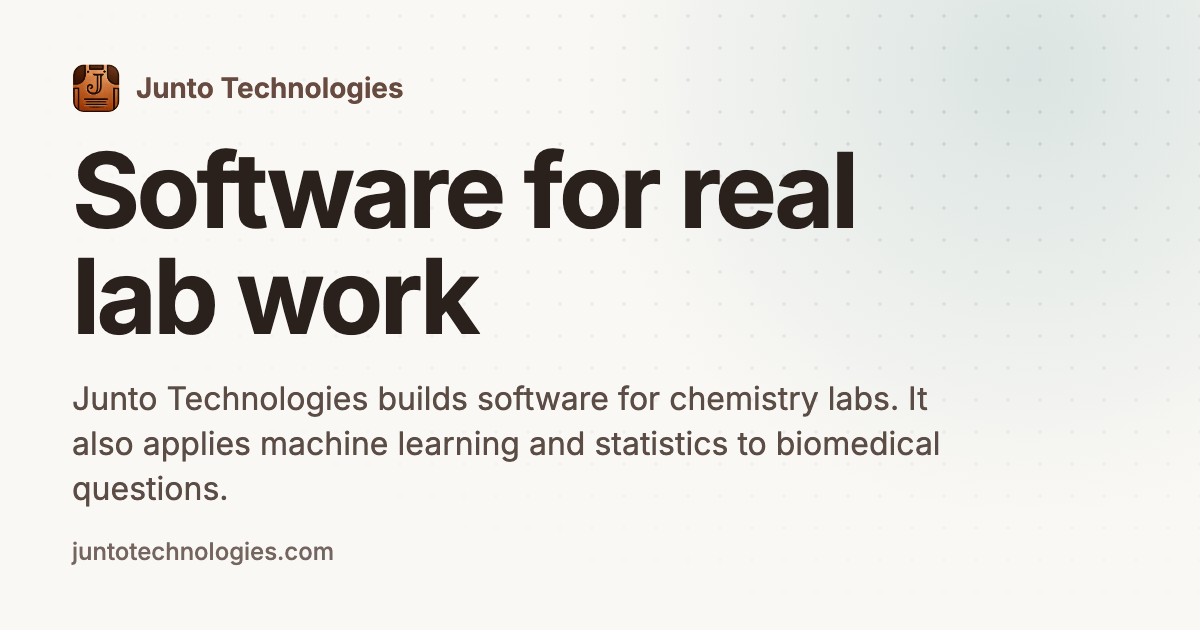
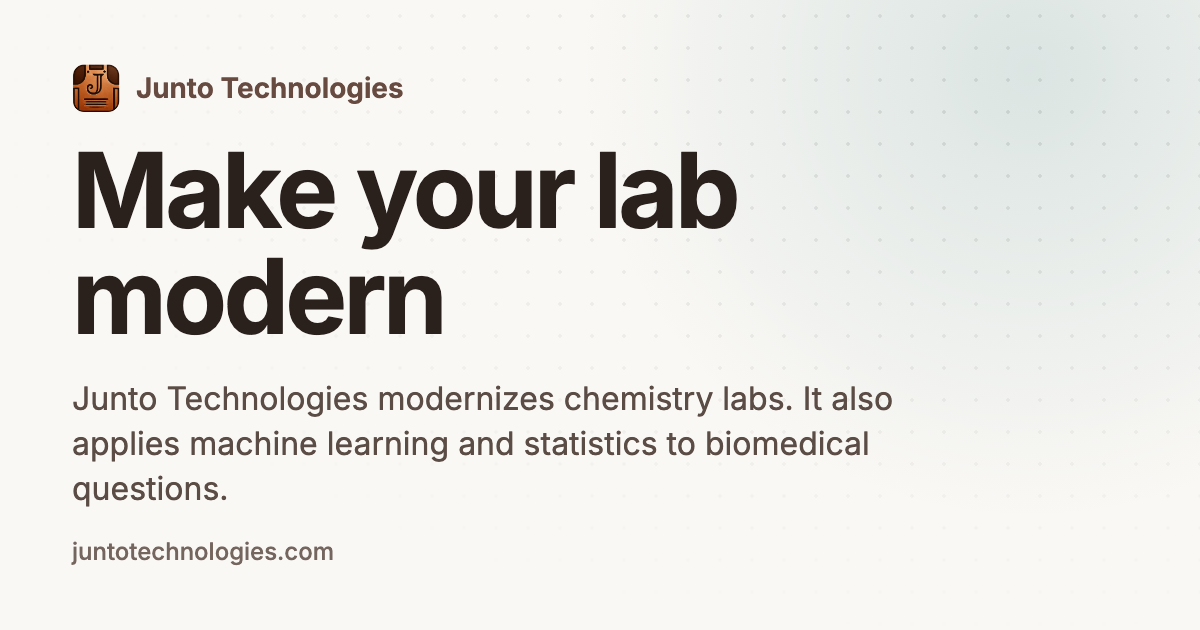
Brand Junto as the lab modernizer and ban the word software in public copy
Shaun said Junto is not a software brand: it also connects older
instruments and moves into hardware. The hero now reads "Make your lab
modern". A test fails when a banned word returns to the public copy.

Claude-Session: https://claude.ai/code/session_01CqjQfdrAKLtMmjtwLw9jWz

diff --git a/index.html b/index.html
@@ -5,22 +5,22 @@
     <meta name="viewport" content="width=device-width, initial-scale=1" />
     <meta name="color-scheme" content="light dark" />
     <title>Junto Technologies</title>
-    <meta name="description" content="Junto Technologies builds software for chemistry labs. It also applies machine learning and statistics to biomedical questions." />
+    <meta name="description" content="Junto Technologies modernizes chemistry labs. It also applies machine learning and statistics to biomedical questions." />
     <link rel="canonical" href="https://juntotechnologies.com/" />
     <meta property="og:type" content="website" />
     <meta property="og:site_name" content="Junto Technologies" />
     <meta property="og:title" content="Junto Technologies" />
-    <meta property="og:description" content="Junto Technologies builds software for chemistry labs. It also applies machine learning and statistics to biomedical questions." />
+    <meta property="og:description" content="Junto Technologies modernizes chemistry labs. It also applies machine learning and statistics to biomedical questions." />
     <meta property="og:url" content="https://juntotechnologies.com/" />
     <meta property="og:image" content="https://juntotechnologies.com/assets/img/og.png" />
     <meta property="og:image:width" content="1200" />
     <meta property="og:image:height" content="630" />
-    <meta property="og:image:alt" content="Junto Technologies. Software for real lab work." />
+    <meta property="og:image:alt" content="Junto Technologies. Make your lab modern." />
     <meta name="twitter:card" content="summary_large_image" />
     <meta name="twitter:title" content="Junto Technologies" />
-    <meta name="twitter:description" content="Junto Technologies builds software for chemistry labs. It also applies machine learning and statistics to biomedical questions." />
+    <meta name="twitter:description" content="Junto Technologies modernizes chemistry labs. It also applies machine learning and statistics to biomedical questions." />
     <meta name="twitter:image" content="https://juntotechnologies.com/assets/img/og.png" />
-    <meta name="twitter:image:alt" content="Junto Technologies. Software for real lab work." />
+    <meta name="twitter:image:alt" content="Junto Technologies. Make your lab modern." />
     <meta name="theme-color" media="(prefers-color-scheme: light)" content="#faf8f5" />
     <meta name="theme-color" media="(prefers-color-scheme: dark)" content="#171311" />
     <link rel="icon" type="image/png" href="public/favicon.png" />
@@ -28,7 +28,7 @@
     <script src="assets/js/theme-init.js"></script>
     <link rel="stylesheet" href="assets/css/tokens.css" />
     <link rel="stylesheet" href="assets/css/site.css" />
-    <script type="application/ld+json">{"@context":"https://schema.org","@graph":[{"@type":"Organization","@id":"https://juntotechnologies.com/#organization","name":"Junto Technologies","url":"https://juntotechnologies.com/","logo":"https://juntotechnologies.com/public/junto-tech-logo.png","description":"Junto Technologies builds software for chemistry labs. It also applies machine learning and statistics to biomedical questions.","sameAs":["https://github.com/juntotechnologies"],"contactPoint":{"@type":"ContactPoint","contactType":"General inquiries","url":"https://cal.com/shaun-porwal-junto/30min"}},{"@type":"WebSite","@id":"https://juntotechnologies.com/#website","name":"Junto Technologies","url":"https://juntotechnologies.com/","description":"Junto Technologies builds software for chemistry labs. It also applies machine learning and statistics to biomedical questions.","inLanguage":"en","publisher":{"@id":"https://juntotechnologies.com/#organization"}},{"@type":"SoftwareApplication","@id":"https://juntotechnologies.com/#cheminventory","name":"ChemInventory","url":"https://cheminventory.co/","description":"Inventory software that fits how each lab works. One record of what a lab holds, where it is and who changed it.","applicationCategory":"BusinessApplication","operatingSystem":"Web","publisher":{"@id":"https://juntotechnologies.com/#organization"}},{"@type":"SoftwareApplication","@id":"https://juntotechnologies.com/#bench-bridge","name":"Bench Bridge","url":"https://bench-bridge.juntotechnologies.com/","description":"A demo of how older lab instruments can feed a laboratory information management system (LIMS) and a controlled-substance ledger.","applicationCategory":"BusinessApplication","operatingSystem":"Web","publisher":{"@id":"https://juntotechnologies.com/#organization"}}]}</script>
+    <script type="application/ld+json">{"@context":"https://schema.org","@graph":[{"@type":"Organization","@id":"https://juntotechnologies.com/#organization","name":"Junto Technologies","url":"https://juntotechnologies.com/","logo":"https://juntotechnologies.com/public/junto-tech-logo.png","description":"Junto Technologies modernizes chemistry labs. It also applies machine learning and statistics to biomedical questions.","sameAs":["https://github.com/juntotechnologies"],"contactPoint":{"@type":"ContactPoint","contactType":"General inquiries","url":"https://cal.com/shaun-porwal-junto/30min"}},{"@type":"WebSite","@id":"https://juntotechnologies.com/#website","name":"Junto Technologies","url":"https://juntotechnologies.com/","description":"Junto Technologies modernizes chemistry labs. It also applies machine learning and statistics to biomedical questions.","inLanguage":"en","publisher":{"@id":"https://juntotechnologies.com/#organization"}},{"@type":"SoftwareApplication","@id":"https://juntotechnologies.com/#cheminventory","name":"ChemInventory","url":"https://cheminventory.co/","description":"Chemical inventory that fits how each lab works. One record of what a lab holds, where it is and who changed it.","applicationCategory":"BusinessApplication","operatingSystem":"Web","publisher":{"@id":"https://juntotechnologies.com/#organization"}},{"@type":"SoftwareApplication","@id":"https://juntotechnologies.com/#bench-bridge","name":"Bench Bridge","url":"https://bench-bridge.juntotechnologies.com/","description":"A demo of how older lab instruments can feed a laboratory information management system (LIMS) and a controlled-substance ledger.","applicationCategory":"BusinessApplication","operatingSystem":"Web","publisher":{"@id":"https://juntotechnologies.com/#organization"}}]}</script>
   </head>
   <body id="top">
   <a class="skip-link" href="#main">Skip to content</a>
@@ -49,8 +49,8 @@
   <main id="main" class="main">
     <section class="hero" aria-labelledby="hero-title">
       <div class="hero__art" aria-hidden="true"><span class="hero__dots"></span><span class="hero__glow"></span></div>
-      <div class="hero__layout"><h1 id="hero-title" class="hero__title">Software for real lab work</h1><div class="hero__aside"><p class="hero__body">Junto Technologies builds tools for chemistry labs. It also applies machine learning and statistics to biomedical questions.</p><p class="actions hero__actions"><a class="button button--large button--primary" href="#projects">See the projects</a><a class="button button--large button--quiet" href="#contact">Get in touch</a></p></div></div>
-      <div class="hero__areas"><p id="areas-label" class="hero__areas-label">Areas of work</p><ul class="hero__areas-list" aria-labelledby="areas-label"><li>Healthcare</li><li>Software</li><li>Engineering</li><li>Machine learning</li><li>Statistics</li></ul></div>
+      <div class="hero__layout"><h1 id="hero-title" class="hero__title">Make your lab modern</h1><div class="hero__aside"><p class="hero__body">Junto Technologies modernizes chemistry labs. It tracks what a lab holds and designs ways to connect older instruments to lab systems. It also applies machine learning and statistics to biomedical questions.</p><p class="actions hero__actions"><a class="button button--large button--primary" href="#projects">See the projects</a><a class="button button--large button--quiet" href="#contact">Get in touch</a></p></div></div>
+      <div class="hero__areas"><p id="areas-label" class="hero__areas-label">Areas of work</p><ul class="hero__areas-list" aria-labelledby="areas-label"><li>Healthcare</li><li>Lab systems</li><li>Engineering</li><li>Machine learning</li><li>Statistics</li></ul></div>
     </section>
     <section class="section" id="projects" aria-labelledby="projects-title">
       <div class="section__head reveal"><h2 id="projects-title" class="section__title">Projects</h2><p class="section__body">Each project has its own site and its own look.</p></div>
@@ -58,7 +58,7 @@
         <div class="tabs" role="tablist" aria-label="Choose a project" style="--tabs:2"><a class="tabs__tab" role="tab" id="tab-cheminventory" href="#cheminventory" aria-controls="cheminventory" aria-selected="true" tabindex="0" style="--look-surface:#eff6ff;--look-accent:#3b82f6"><span class="mark" aria-hidden="true"></span>ChemInventory</a><a class="tabs__tab" role="tab" id="tab-bench-bridge" href="#bench-bridge" aria-controls="bench-bridge" aria-selected="false" tabindex="-1" style="--look-surface:#f3eee3;--look-accent:#e8590c"><span class="mark" aria-hidden="true"></span>Bench Bridge</a><span class="tabs__indicator" aria-hidden="true"></span></div>
         <div class="panels">
         <article class="panel is-selected" role="tabpanel" id="cheminventory" aria-labelledby="tab-cheminventory" style="--look-surface:#eff6ff;--look-accent:#3b82f6">
-          <div class="panel__head"><p class="chip"><span class="chip__kind">Product</span><span class="chip__status"><span class="chip__dot" aria-hidden="true"></span>Live</span></p><h3 class="panel__name"><span class="mark" aria-hidden="true"></span>ChemInventory</h3><p class="panel__summary">Inventory software that fits how each lab works. One record of what a lab holds, where it is and who changed it.</p></div>
+          <div class="panel__head"><p class="chip"><span class="chip__kind">Product</span><span class="chip__status"><span class="chip__dot" aria-hidden="true"></span>Live</span></p><h3 class="panel__name"><span class="mark" aria-hidden="true"></span>ChemInventory</h3><p class="panel__summary">Chemical inventory that fits how each lab works. One record of what a lab holds, where it is and who changed it.</p></div>
           <div class="panel__preview"><div class="frame"><span class="frame__bar" aria-hidden="true"><i></i><i></i><i></i><span class="frame__host">cheminventory.co</span></span><img class="frame__image" src="assets/img/projects/cheminventory.webp" width="1280" height="800" alt="The ChemInventory demo: a table of chemicals with product number, batch, name, CAS number and actions." loading="lazy" decoding="async" /></div></div>
           <ul class="facts"><li><svg class="icon icon--check" width="16" height="16" viewBox="0 0 24 24" fill="none" stroke="currentColor" stroke-width="1.75" stroke-linecap="round" stroke-linejoin="round" aria-hidden="true"><path d="m5 12.5 4.5 4.5L19 7.5"/></svg><span>Tracks chemicals, locations, orders and batch documents.</span></li><li><svg class="icon icon--check" width="16" height="16" viewBox="0 0 24 24" fill="none" stroke="currentColor" stroke-width="1.75" stroke-linecap="round" stroke-linejoin="round" aria-hidden="true"><path d="m5 12.5 4.5 4.5L19 7.5"/></svg><span>Keeps a change history with the user and the time.</span></li><li><svg class="icon icon--check" width="16" height="16" viewBox="0 0 24 24" fill="none" stroke="currentColor" stroke-width="1.75" stroke-linecap="round" stroke-linejoin="round" aria-hidden="true"><path d="m5 12.5 4.5 4.5L19 7.5"/></svg><span>Gives each person a role: admin, manager or chemist.</span></li></ul>
           <div class="panel__actions"><p class="actions"><a class="button button--primary" href="https://cheminventory.co/">Open ChemInventory<svg class="icon icon--arrow-right" width="16" height="16" viewBox="0 0 24 24" fill="none" stroke="currentColor" stroke-width="1.75" stroke-linecap="round" stroke-linejoin="round" aria-hidden="true"><path d="M5 12h14M13 6l6 6-6 6"/></svg></a><a class="button button--quiet" href="https://demo.cheminventory.co/">Try the demo<svg class="icon icon--arrow-right" width="16" height="16" viewBox="0 0 24 24" fill="none" stroke="currentColor" stroke-width="1.75" stroke-linecap="round" stroke-linejoin="round" aria-hidden="true"><path d="M5 12h14M13 6l6 6-6 6"/></svg></a></p><p class="note">The demo uses sample data. Changes reset on refresh.</p></div>
@@ -102,7 +102,7 @@
       </div>
     </section>
     <section class="section" id="team" aria-labelledby="team-title">
-      <div class="section__head reveal"><h2 id="team-title" class="section__title">Work directly with the builder</h2><p class="section__body">Shaun works with companies to understand their operations, then designs software that fits how their teams work.</p></div>
+      <div class="section__head reveal"><h2 id="team-title" class="section__title">Work directly with the builder</h2><p class="section__body">Shaun works with companies to understand their operations, then designs tools that fit how their teams work.</p></div>
       <article class="person card reveal" style="--i:1">
         <img class="person__photo" src="public/team_pics/shaun-720.webp" width="720" height="720" alt="Portrait of Shaun Porwal" loading="lazy" decoding="async" />
         <div class="person__text">

diff --git a/docs/projects.md b/docs/projects.md
@@ -27,7 +27,7 @@ Optional fields: `live` shows a pulsing dot in the status chip. `flow` shows the
 - Name no prospect and no customer. A public case study may name a customer only with consent.
 - State no price.
 - Make no claim of Part 11 compliance.
-- Say what each project is. ChemInventory is live software. Bench Bridge is a demo with sample data and a mock LIMS.
+- Say what each project is. ChemInventory is live. Bench Bridge is a demo with sample data and a mock LIMS.
 - Write "Source on GitHub" for Bench Bridge. The repository has no license, so "open source" is wrong.
 - Use "open source" only for a project that has an open license. The evidence rows below name each license.
 - State no star count. State a download count only for dcurves, from `data/downloads.json`, with its source and date.

diff --git a/AGENTS.md b/AGENTS.md
@@ -34,6 +34,7 @@ Never edit a generated file. Change the source and run `npm run build`.
 ## Rules for the public site
 
 - Name no prospect and no customer. A public case study may name a customer only with consent.
+- Brand Junto as the company that makes the lab modern, in software and in hardware. Never write "software" in public copy: Shaun said so on 2026-10-27. `tools/checks/brand.json` lists the banned words and `tests/brand.test.mjs` enforces them. The schema.org type `SoftwareApplication` stays.
 - State no price. Make no claim of Part 11 compliance.
 - Say what each project is. Bench Bridge is a demo with sample data. Write "Source on GitHub", not "open source".
 - Use "open source" only for a project with an open license.

diff --git a/tools/checks/AGENTS.md b/tools/checks/AGENTS.md
@@ -12,5 +12,6 @@ Commands that exit with code 1 when something drifts.
 
 ## Rules
 - `fitBudget.mjs` holds the pure steps of the fit check. `fit.json` names the device and the cards.
+- `brand.json` names the banned brand words and the files to scan. `tests/brand.test.mjs` reads it.
 - `upstreamHandlers.mjs` holds one pure handler for each check in `data/upstream.json`.
 - Print one line for each fault. Name the file or project.
